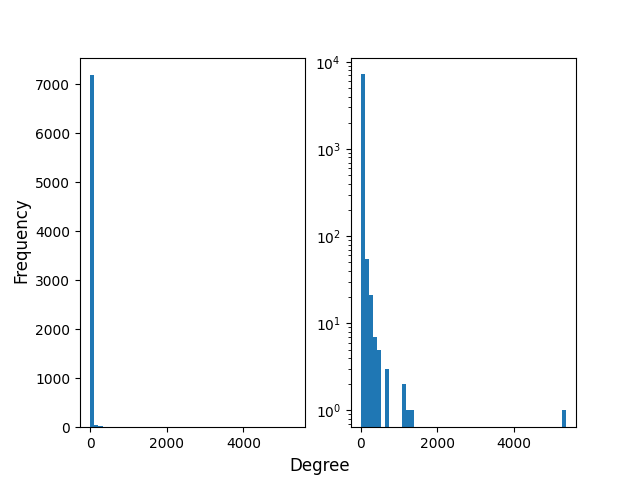
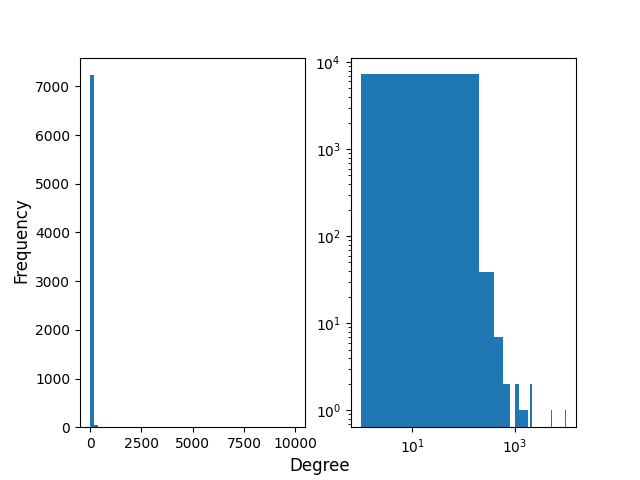
Initial analysis

diff --git a/main.py b/main.py
@@ -1,3 +1,4 @@
+from networkx.algorithms.distance_measures import diameter
 from networkx.classes.digraph import DiGraph
 from networkx.classes.function import degree
 from networkx.classes.graph import Graph
@@ -207,17 +208,37 @@ def graphs_creation():
     return fg, cg, rg, bg
 
 
-def graph_analysis(matrix: DiGraph, graph_name: str):
+def graph_analysis(matrix: MultiDiGraph, graph_name: str):
     # graph name is used while saving images, etc
-    matrix.remove_node(__NULL_ADDRESS)
+    # TODO: rimuovere nodi con degree < 1? Significa che hanno riscattato il token e non lo hanno mai usato
+    # matrix.remove_node(__NULL_ADDRESS)
+    # Degree analysis
+    matrix = matrix.to_undirected()
+    flat_matrix = nx.Graph(matrix)
+    flat_matrix.remove_edges_from(nx.selfloop_edges(flat_matrix)) #TODO: Provare come cambia con e senza
     degrees = [degree for node, degree in matrix.degree()]
-    centralities = nx.algorithms.centrality.degree_centrality(matrix)
-    fig, (ax1, ax2) = plt.subplots(1, 2)
-    ax1.hist(degrees, log=False, bins=50)
-    ax2.hist(degrees, log=True, bins=50)
+    fig, (ax1, ax2) = plt.subplots(1, 2, sharex = False, sharey=False)
+    ax1.hist(degrees, bins=50)
+    ax2.hist(degrees, bins=50)
+    ax2.set_yscale("log")
+    ax2.set_xscale("log")
     fig.supxlabel('Degree')
     fig.supylabel('Frequency')
     fig.savefig('./out/'+graph_name+"_deg_dist")
+    '''# Average path lenght
+    avg_path = nx.algorithms.average_shortest_path_length(matrix)
+    print("Average path length: ", avg_path)
+    # Diameter
+    diameter = nx.algorithms.diameter(matrix)
+    print("Diameter: ", diameter)
+    # Clustering coefficent
+    c_coefficent = nx.algorithms.average_clustering(flat_matrix)
+    print("Clustering coefficent: ", c_coefficent)'''
+    # k-cores analysis
+    k_cores = [nx.algorithms.k_core(flat_matrix,k) for k in range(1,15)]
+    for k_core in k_cores:
+        print("Core values: ", k_core) #TODO: usare shape del grafo
+        
 
 
 def debug():
@@ -242,7 +263,6 @@ if __name__ == "__main__":
     '''Edgelist of the bipartite graph Nft - owner'''
     # nx.to_pandas_edgelist(bg).to_csv(
     #    ./out/bipartite.csv", index=False, mode="w")
-    # --------------------------------------------------------------------------------------
     #debug()
     graph_analysis(fg,"fg")
     pass
